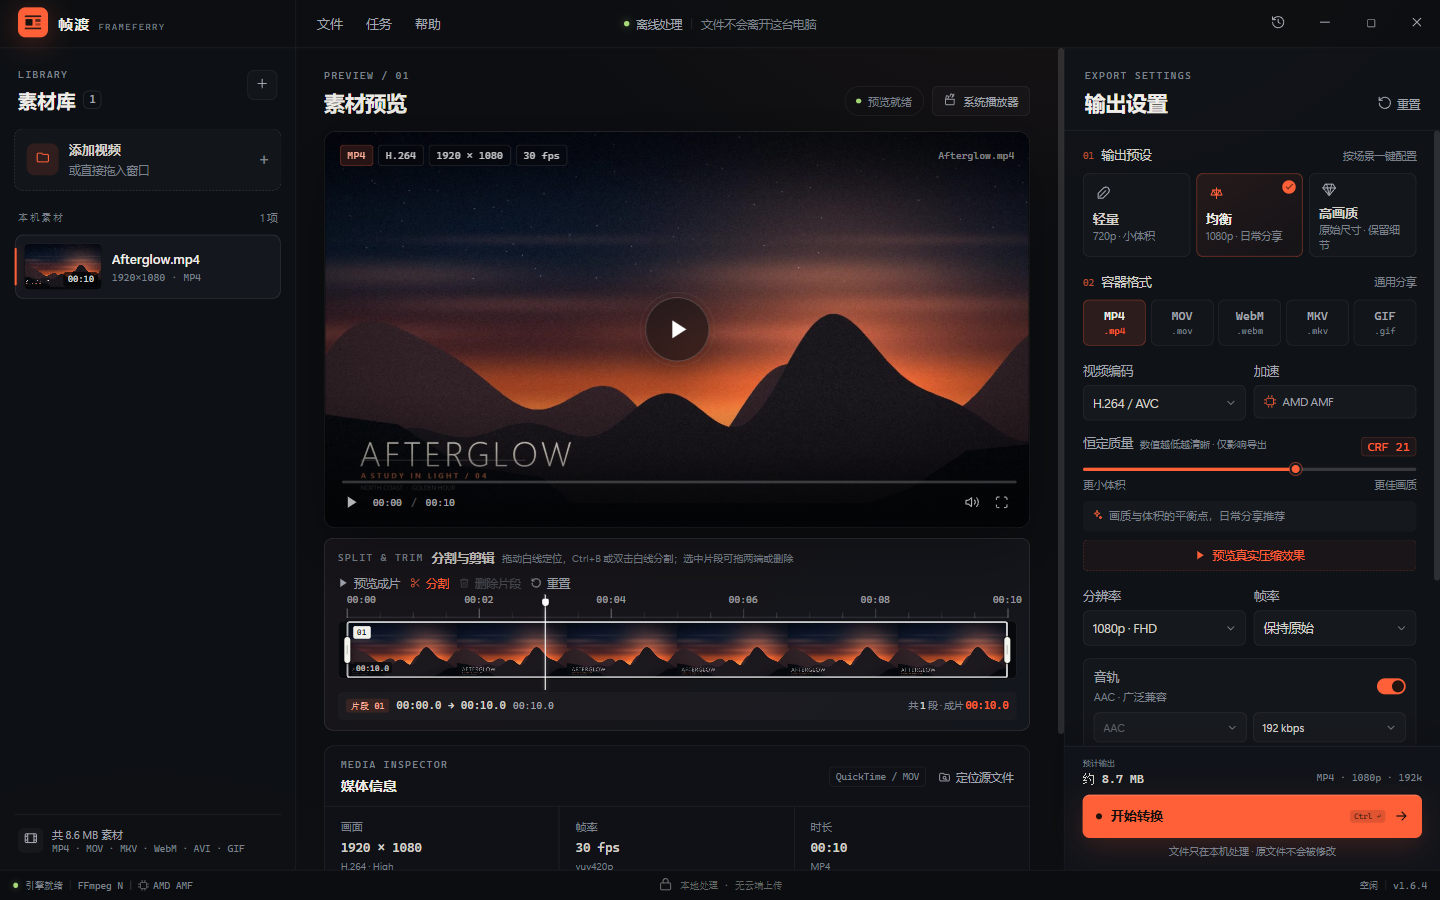
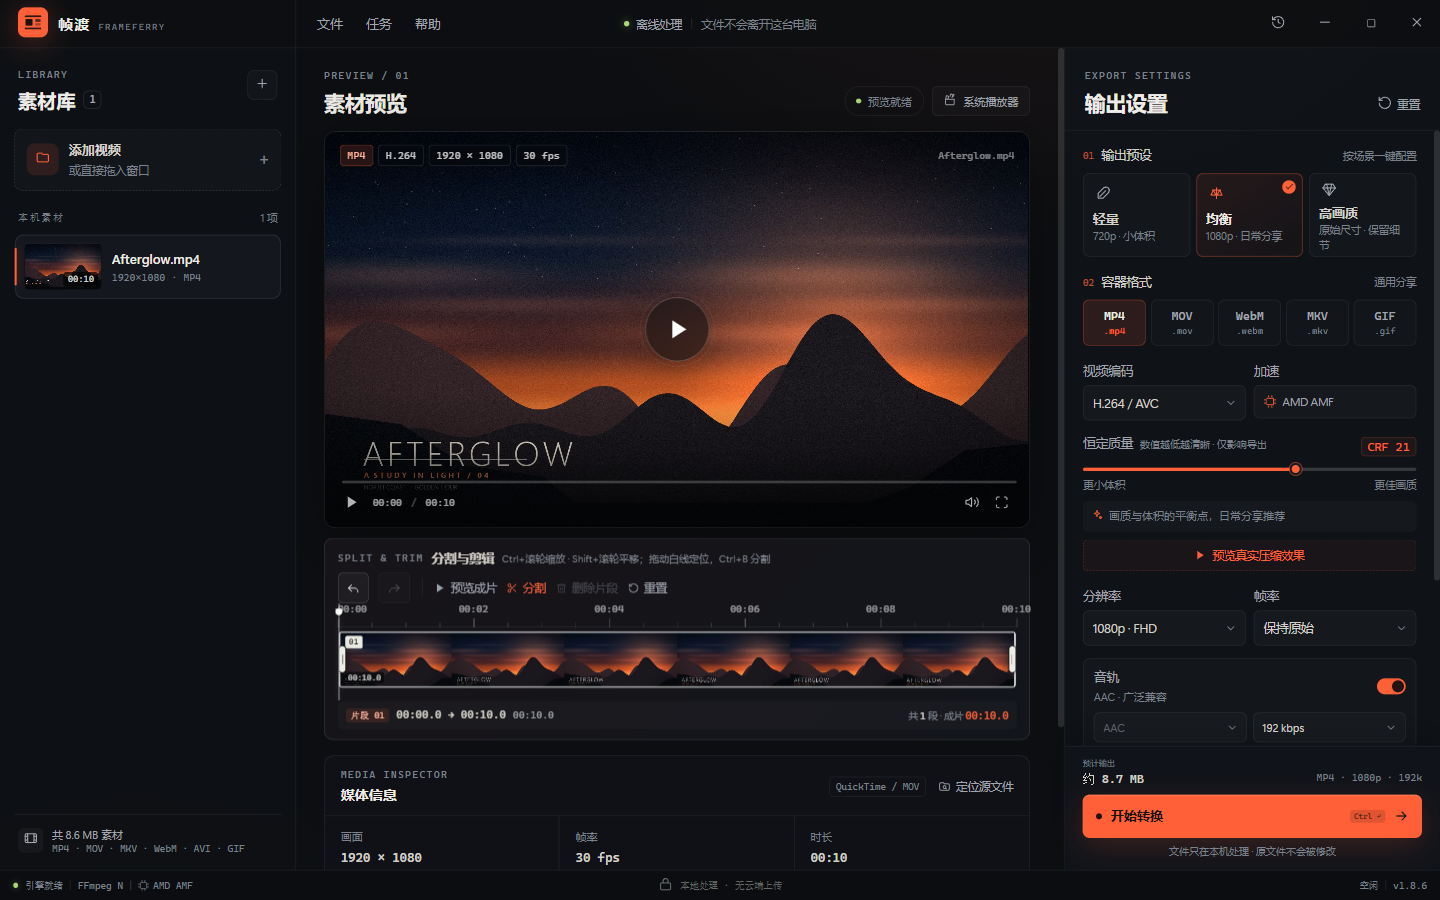
fix: 两端手柄整体移入片段内
去掉左右避让槽后，跨在片段边缘的 16px 手柄有一半被裁剪，只剩几个像素可点。将左右手柄改为完全位于片段内，恢复完整命中区和两端裁剪。版本提升到 v1.8.6。

diff --git a/renderer/styles.css b/renderer/styles.css
@@ -4730,3 +4730,35 @@ input:focus-visible {
   margin-left: 0;
   margin-right: 0;
 }
+
+/* Keep the full handle hit area inside the clip, even at the timeline edges. */
+.clip-handle-start {
+  left: 0;
+}
+
+.clip-handle-end {
+  right: 0;
+}
+
+.clip-handle-start::before {
+  left: 0;
+  right: auto;
+  transform: translateY(-50%);
+}
+
+.clip-handle-end::before {
+  left: auto;
+  right: 0;
+  transform: translateY(-50%);
+}
+
+.clip-handle-start::after {
+  left: 3px;
+  transform: translateY(-50%);
+}
+
+.clip-handle-end::after {
+  right: 3px;
+  left: auto;
+  transform: translateY(-50%);
+}

diff --git a/docs/TEST_REPORT.md b/docs/TEST_REPORT.md
@@ -146,6 +146,8 @@
 | 删除区纯深色 | 删除/空白区域不再绘制斜纹，右侧手柄可以拖回去恢复被裁内容 |
 | 缩略图铺满两端 | 完整导入 10s 视频，缩略图从时间轴左边缘铺到右边缘，不再有左右各 8px 的黑槽；标尺起止与缩略图对齐 |
 | 播放头不落在删除区 | 当前时间 0.5s、片段 [1,3] 时，播放头绘制在 1s 的片段左边缘，与边框重合；不再在删除区多出一根线 |
+| 两端手柄可拖动 | 完整 10s 片段，左端手柄命中区从 0–16px 全部位于片段内；拖到 20% 后片段变为 [2,10] |
+| 右端手柄可拖动 | 右端手柄同样整体位于片段内，可向左拖动缩短 |
 | Ctrl+滚轮缩放 | 1.25x 后可视 8.8s，标尺重排为 00:02/04/06/08；缩略图同步拉长 |
 | Shift+滚轮平移 | 向右平移后视图起点 2.2s，标尺变为 00:04–00:10 |
 | 横向滚动条 | 缩放后出现滑块，宽度按可视比例计算；点击轨道右侧后起点 2.2s，标尺变为 00:04–00:10 |
